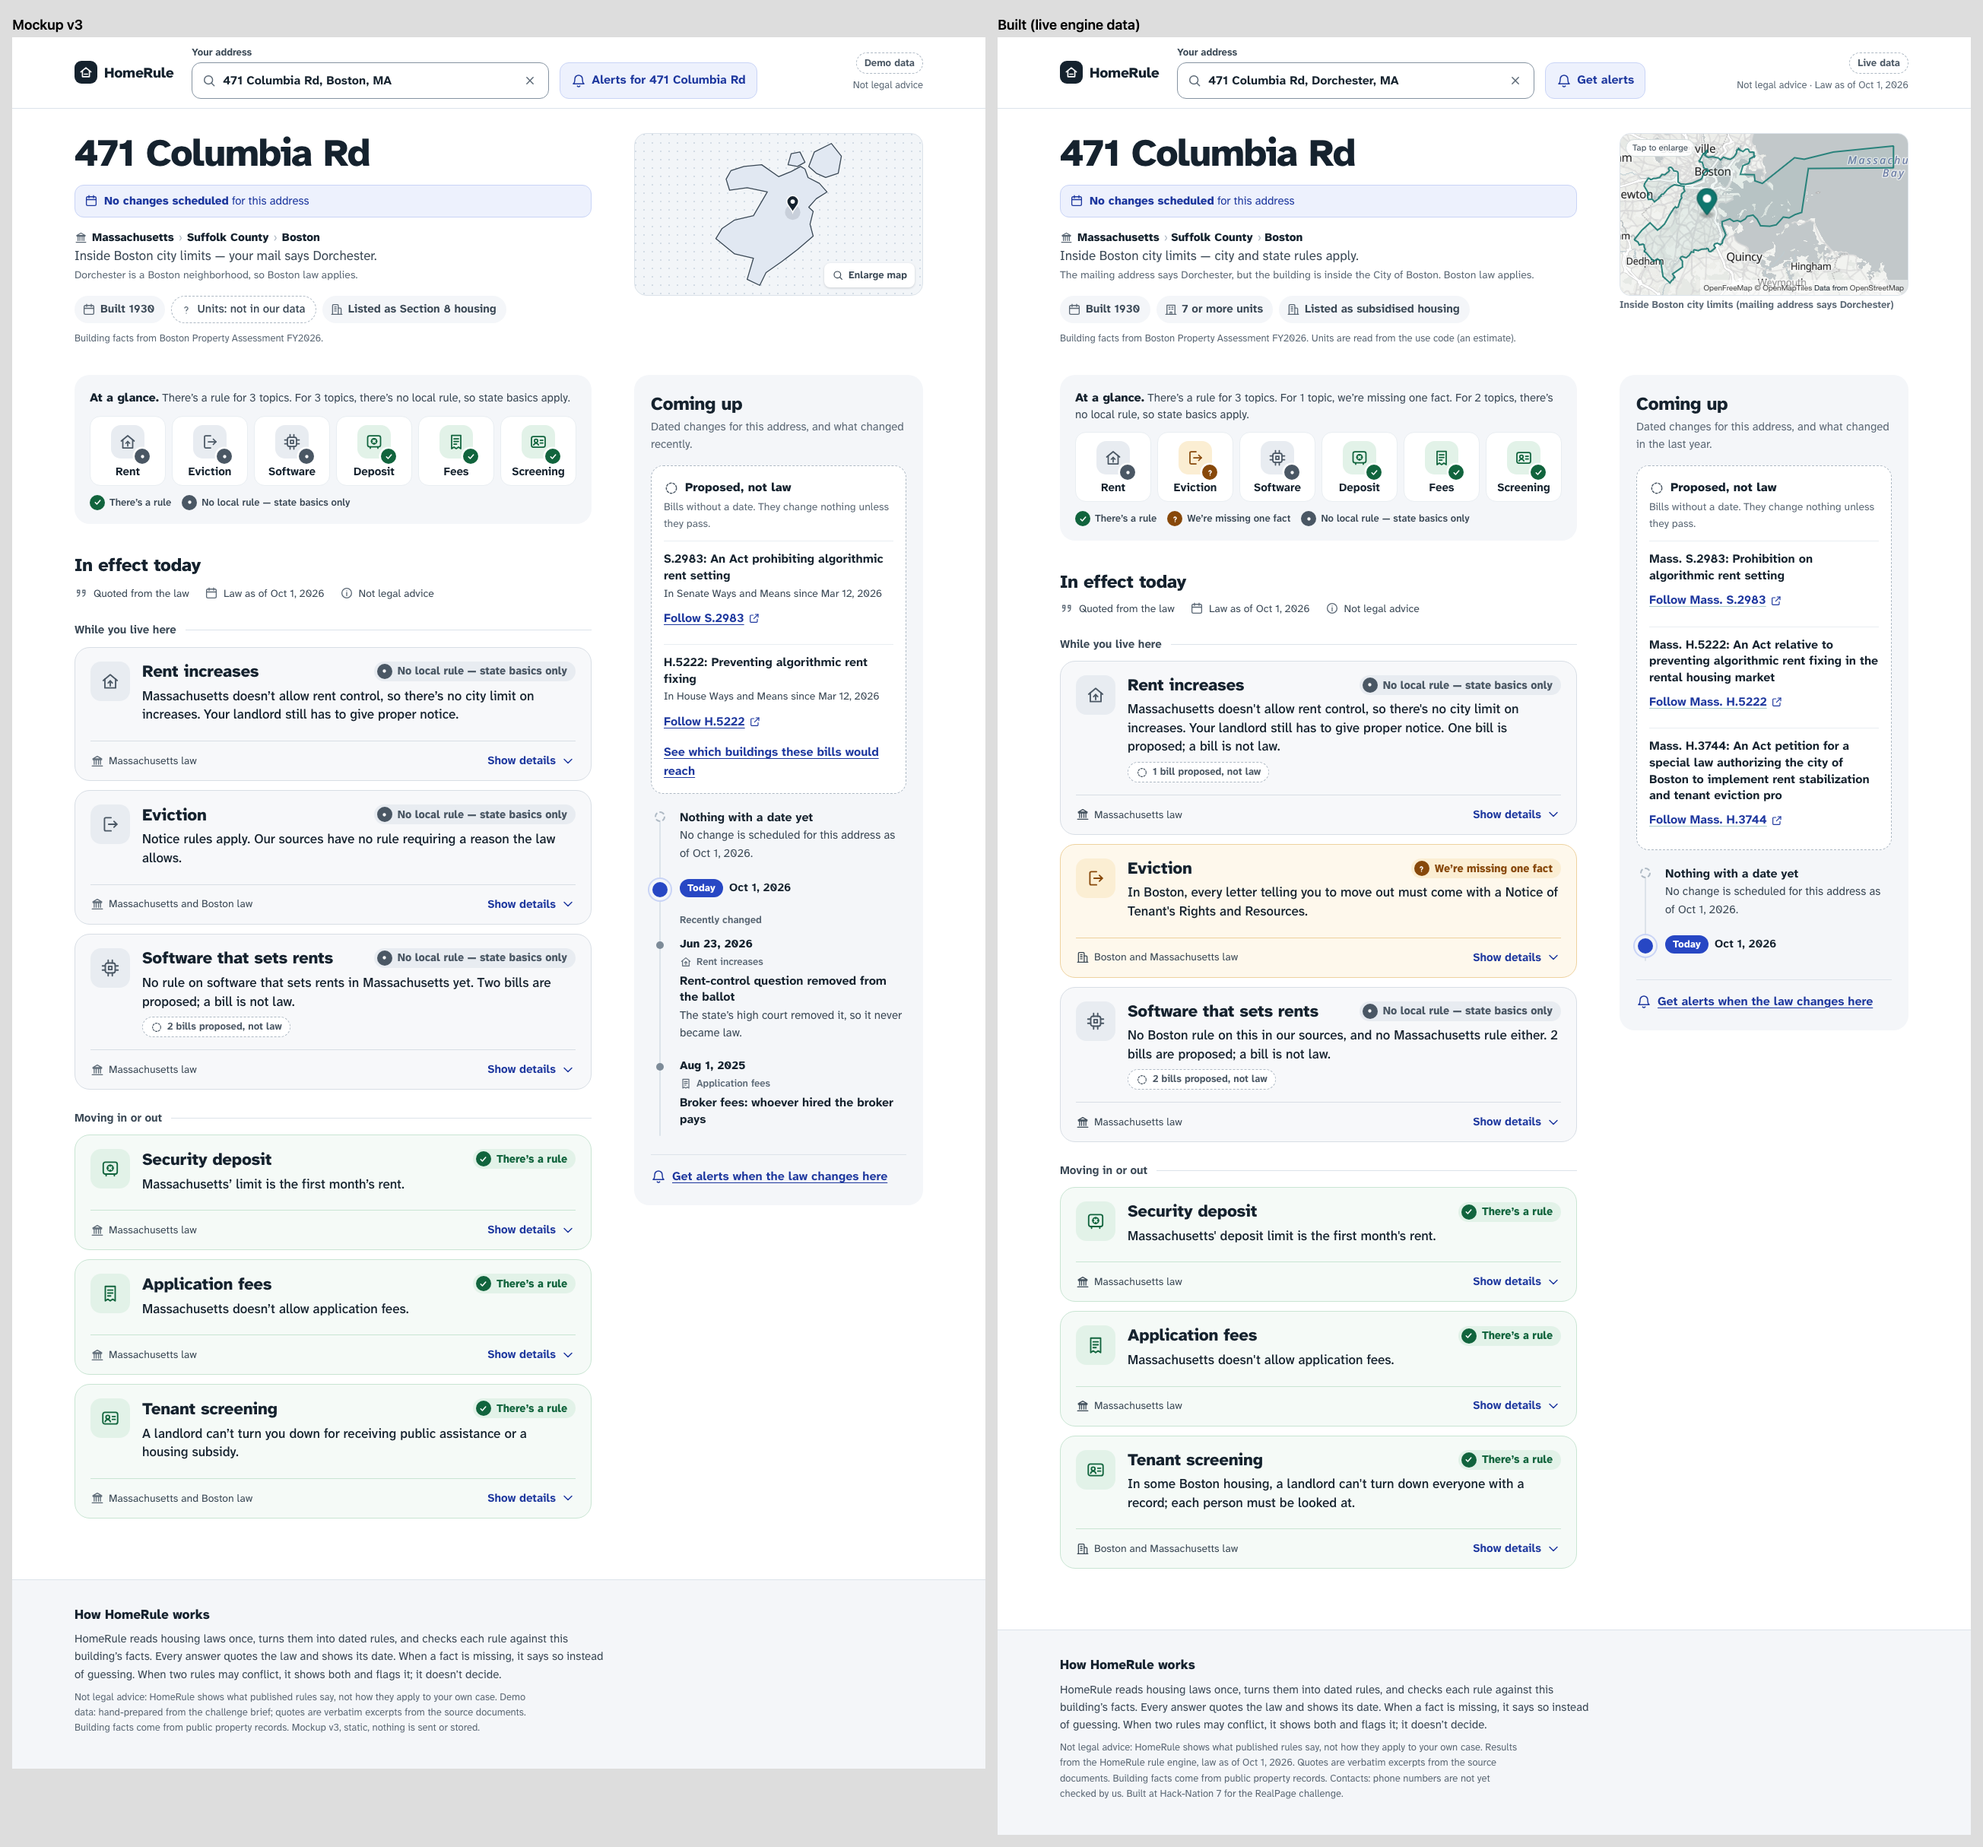
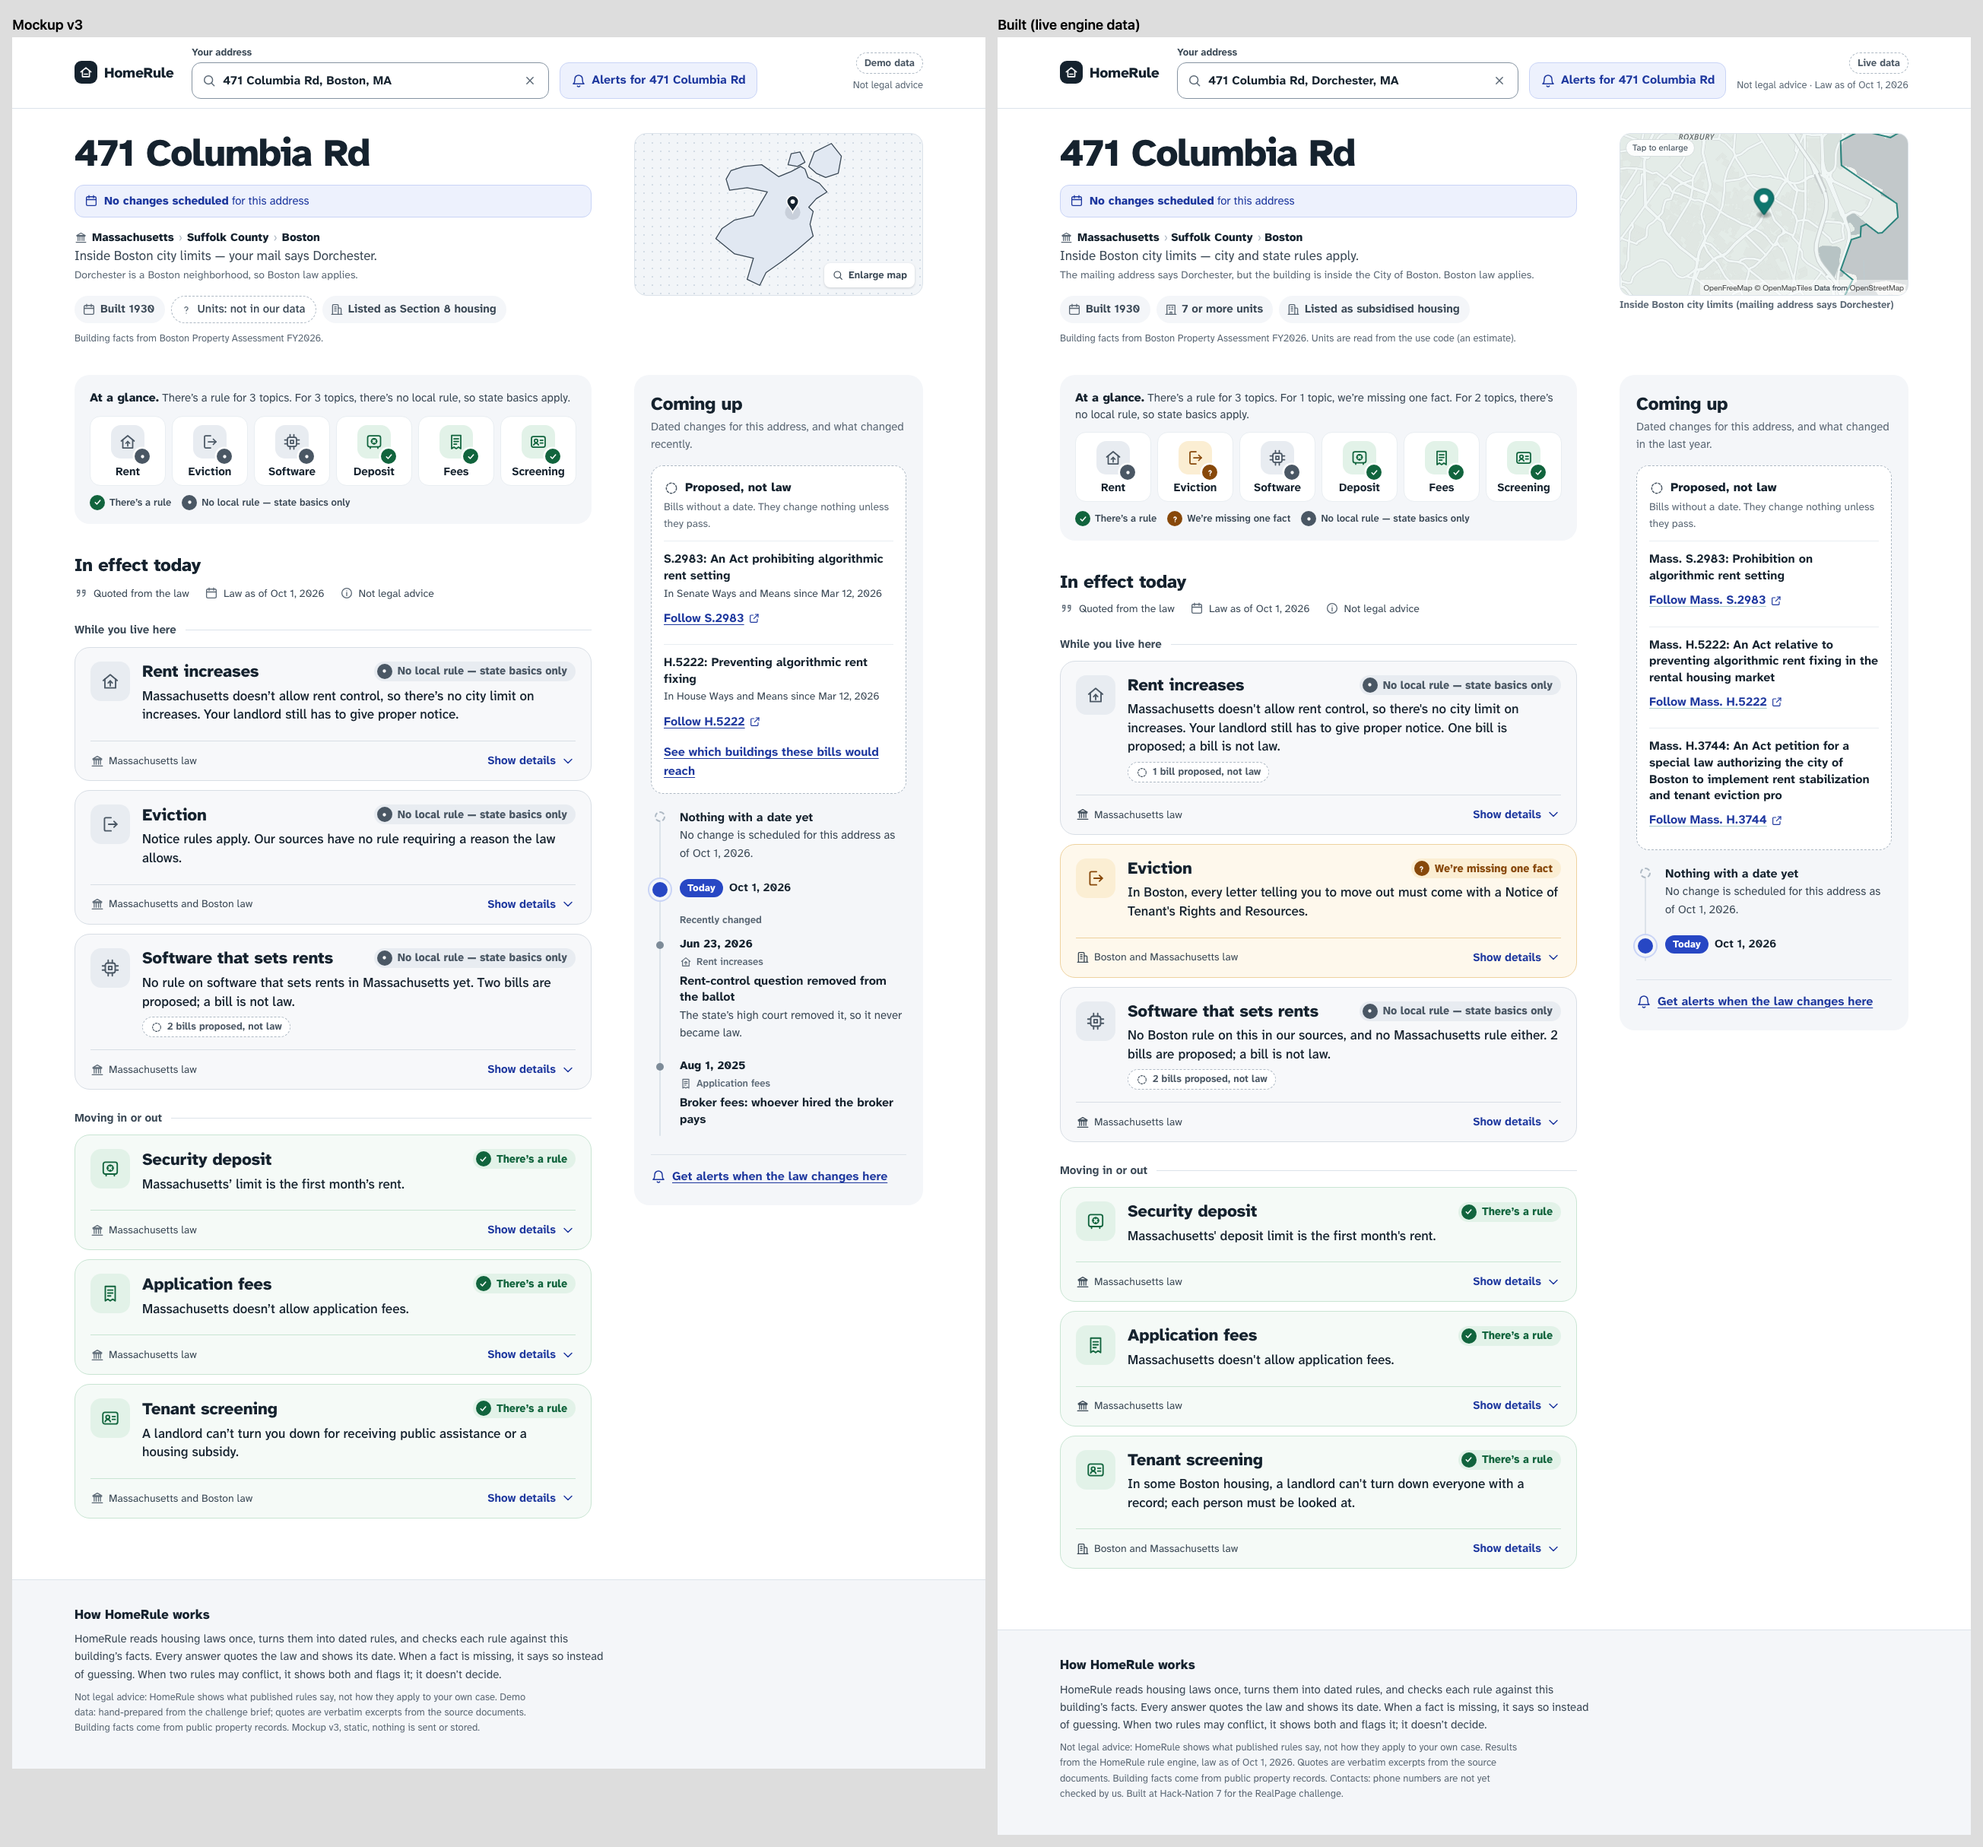
Address page: glance tiles always shown, land-only city outlines, pin-centred map
- At a glance: the six topic tiles (icon, status badge, name) and the legend show on every
  address, not only when statuses differ; summary sentence counts the statuses. 3x2 at 390px.
  Click opens and scrolls to the topic.
- Unknown building facts use the dashed amber 'not in our data' pill.
- City outlines from Census cartographic boundary files (500k, shoreline-clipped) instead of
  TIGER/Line legal boundaries; parts under 5% of the main body dropped (SF: Farallones,
  Treasure Island). Map centres on the pin at neighbourhood zoom; light loading state until
  the first tiles draw.
- Screenshots re-shot (SF A0016 + A0081, Dorchester, East LA; desktop + 390px).

Claude-Session: https://claude.ai/code/session_01DDCDN7SA3LNH1piJrEWYyd

Changed region(s): [[0.8075, 0.0309, 0.9628, 0.1544]]

diff --git a/web/app/a/view-props.ts b/web/app/a/view-props.ts
@@ -35,13 +35,12 @@ export function viewProps(data: Dataset, address: Address, results: Result[], ex
     : `Outside any city: unincorporated ${county?.legal_name ?? "county"} — state rules apply.`;
   const capSub = extra?.legalNote ?? address.legal_city_note ?? (cityName && address.postal_city && address.postal_city !== cityName ? `Your mail says ${address.postal_city}; ${cityName} law applies.` : undefined);
 
-  // Building facts: shown plainly, "not in our data" when unknown; amber when a tile waits on it.
-  const waiting = new Set(view.tiles.flatMap((t) => (t.status === "depends" ? t.rules.filter((r) => r.st === "depends").flatMap((r) => rules[r.rule_id]?.coverage_facts ?? []) : [])));
+  // Building facts: shown plainly; an unknown fact is the dashed amber "not in our data" pill.
   const year = builtYear(address.facts.built);
   const units = unitsText(address.facts.units);
   const facts: { icon: string; text: string; cls?: string }[] = [
-    year ? { icon: "i-cal", text: `Built ${year}` } : { icon: "g-q", text: "Year built: not in our data", cls: waiting.has("built") ? "unk key" : "unk" },
-    units ? { icon: "i-units", text: `${units} units` } : { icon: "g-q", text: "Units: not in our data", cls: waiting.has("units") ? "unk key" : "unk" },
+    year ? { icon: "i-cal", text: `Built ${year}` } : { icon: "g-q", text: "Year built: not in our data", cls: "unk key" },
+    units ? { icon: "i-units", text: `${units} units` } : { icon: "g-q", text: "Units: not in our data", cls: "unk key" },
   ];
   if (address.facts.subsidised) facts.push({ icon: "i-building", text: "Listed as subsidised housing" });
   const factSrc = extra?.typed

diff --git a/web/app/a/[id]/address-page.tsx b/web/app/a/[id]/address-page.tsx
@@ -539,12 +539,11 @@ export default function AddressPageView(p: PageProps) {
   const [alerts, setAlerts] = useState(false);
   const counts = { protect: 0, depends: 0, none: 0 } as Record<TileStatus, number>;
   v.tiles.forEach((t) => counts[t.status]++);
-  const same = Object.values(counts).includes(6);
   const n = (k: TileStatus, one: string, many: string) => `${counts[k]} ${counts[k] === 1 ? one : many}`;
   const sum: string[] = [];
-  if (counts.protect === 6) sum.push("There’s a rule for each of the 6 topics at this address. Open a topic to see what it says and who to call.");
-  else {
-    if (counts.protect) sum.push(`There’s a rule for ${n("protect", "topic", "topics")}.`);
+  {
+    if (counts.protect === 6) sum.push("There’s a rule for each of the 6 topics at this address.");
+    else if (counts.protect) sum.push(`There’s a rule for ${n("protect", "topic", "topics")}.`);
     if (counts.depends) sum.push(`For ${n("depends", "topic", "topics")}, we’re missing one fact.`);
     if (counts.none) sum.push(`For ${n("none", "topic", "topics")}, there’s no local rule, so state basics apply.`);
   }
@@ -649,7 +648,7 @@ export default function AddressPageView(p: PageProps) {
               </h2>{" "}
               {sum.join(" ")}
             </div>
-            {!same && (
+            {(
               <>
                 <ul className="toks">
                   {v.tiles.map((t) => (

diff --git a/web/components/address-map-gl.tsx b/web/components/address-map-gl.tsx
@@ -66,12 +66,16 @@ function useMap(
     });
     if (coords) new maplibregl.Marker({ color: TEAL }).setLngLat([coords.lon, coords.lat]).addTo(map);
 
-    // Frame: the whole city with the pin in it; without a city, the street around the pin.
-    if (outline) {
-      const b = outlineBounds(outline);
-      if (coords) b.extend([coords.lon, coords.lat]);
-      map.fitBounds(b, { padding: interactive ? 40 : 16, animate: false });
+    // Frame: the building at neighbourhood zoom, so a part of the city line shows nearby.
+    // Without a pin, the whole (land-only) city outline.
+    if (coords) {
+      map.jumpTo({ center: [coords.lon, coords.lat], zoom: interactive ? 12.5 : 11.8 });
+    } else if (outline) {
+      map.fitBounds(outlineBounds(outline), { padding: interactive ? 40 : 16, animate: false });
     }
+    // Light loading state until the first tiles have drawn.
+    el.setAttribute("data-loading", "true");
+    map.once("idle", () => el.removeAttribute("data-loading"));
     // Containers can change size after mount (lazy layout, dialog opening): keep the canvas in step.
     const ro = new ResizeObserver(() => map.resize());
     ro.observe(el);

diff --git a/web/app/globals.css b/web/app/globals.css
@@ -1628,3 +1628,24 @@ a:hover {
     animation: none !important;
   }
 }
+
+/* map placeholder until the first tiles have drawn */
+.addr-map[data-loading="true"],
+.addr-map-loading {
+  background: linear-gradient(100deg, #eef2f5 30%, #f7f9fb 50%, #eef2f5 70%) 0 0 / 300% 100%;
+  animation: addr-map-shimmer 1.4s linear infinite;
+}
+.addr-map[data-loading="true"] canvas {
+  opacity: 0;
+}
+@keyframes addr-map-shimmer {
+  to {
+    background-position: -150% 0;
+  }
+}
+@media (prefers-reduced-motion: reduce) {
+  .addr-map[data-loading="true"],
+  .addr-map-loading {
+    animation: none;
+  }
+}
